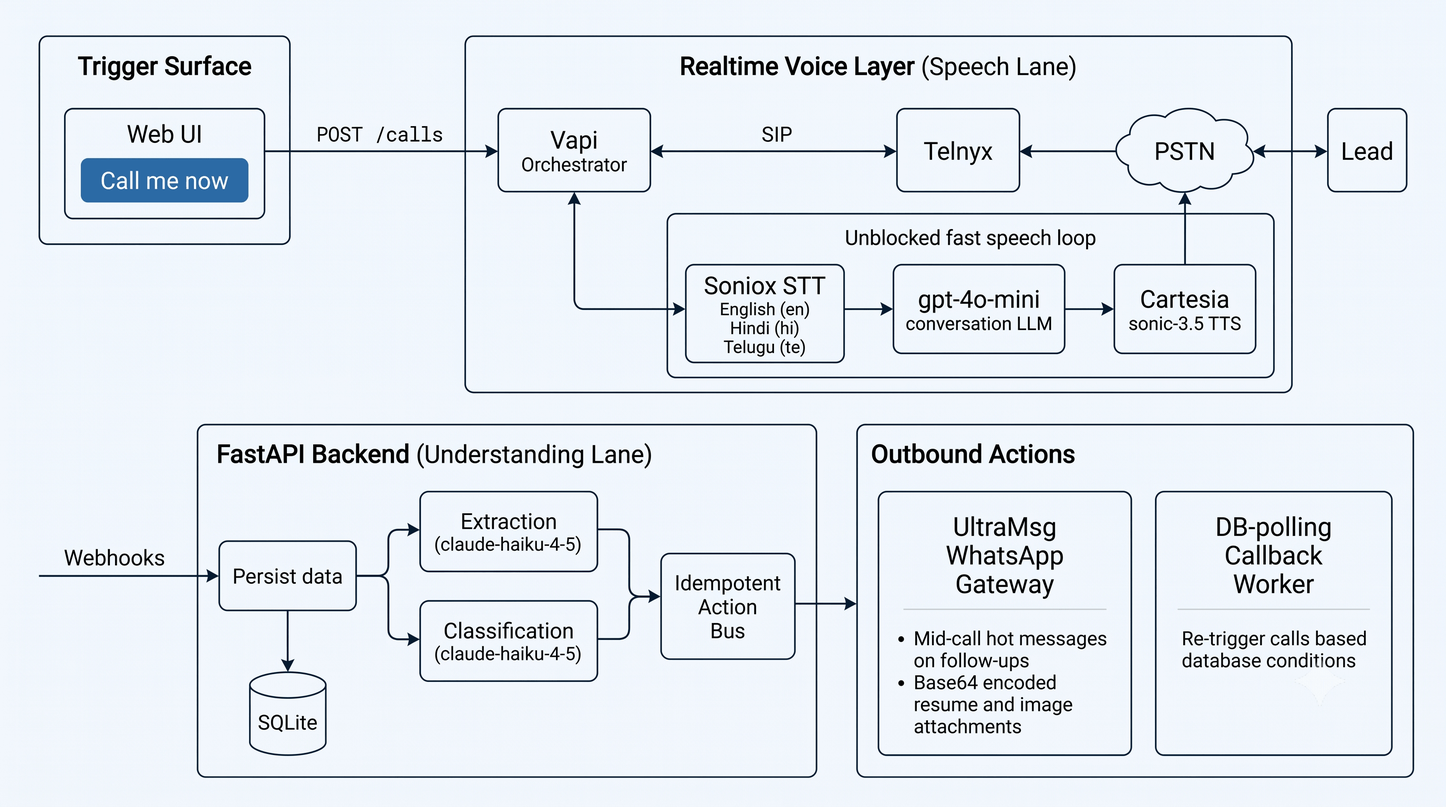
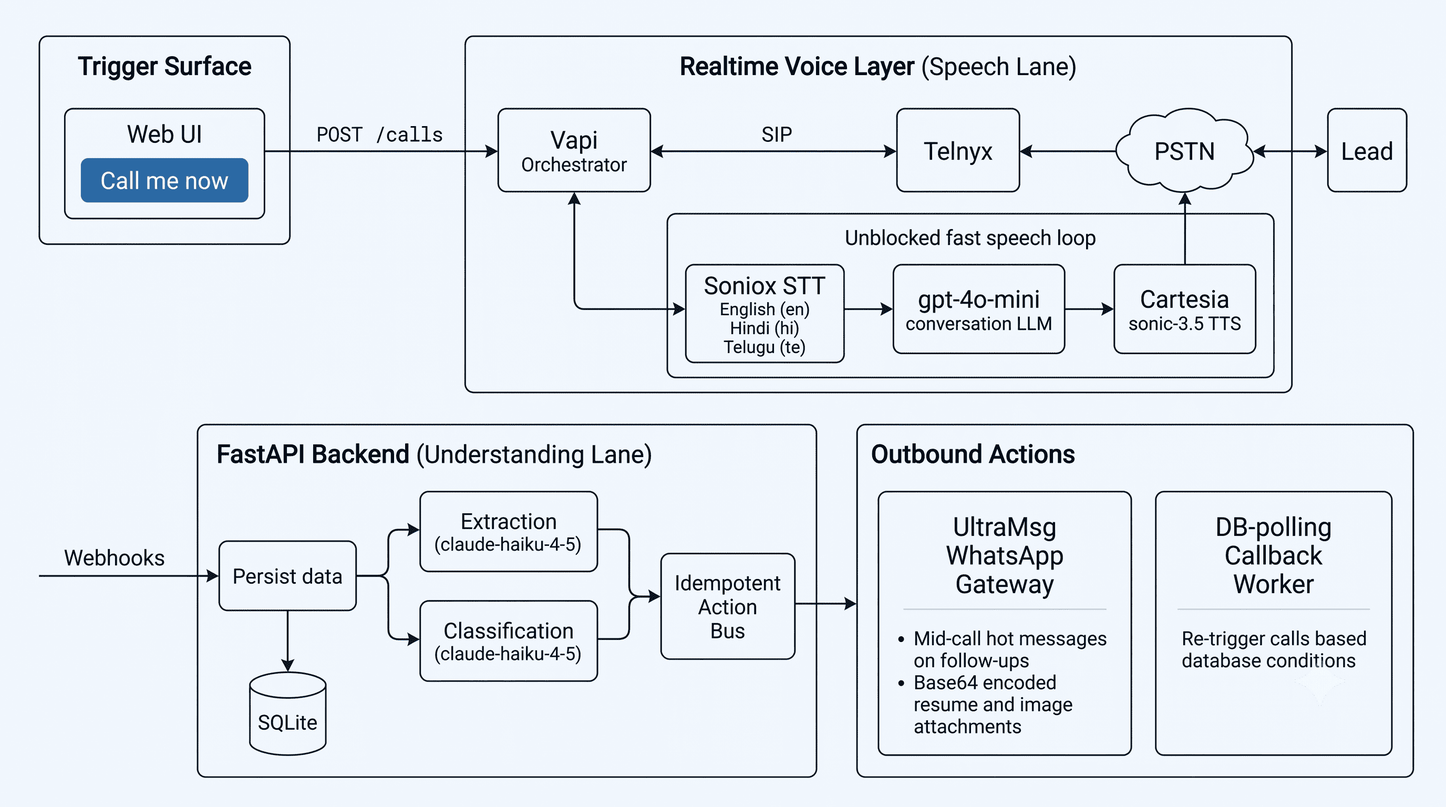
Improved whatsapp flow

diff --git a/backend/smoke_test.py b/backend/smoke_test.py
@@ -789,6 +789,58 @@ def main():
               sum(1 for a in db.get_actions(call6)
                   if a["type"] == "whatsapp_followup") == 1, db.get_actions(call6))
 
+        print("\nEVALUATOR ARMING  (the call must never outrun the messages)")
+        # The real bug this replaces: the dialler had no evaluator check while
+        # the WhatsApp sender did, so pointing ALLOWED_DESTINATION at the
+        # evaluator without ALLOW_EVALUATOR=1 gave a flawless call and refused
+        # every message on it. Both paths must now agree in all three states.
+        from app import dialler                                    # noqa: E402
+        original = (settings.allowed_destination, settings.allow_evaluator)
+        try:
+            def both(number):
+                """(dial_ok, whatsapp_ok) for one destination."""
+                dial_ok = settings.permits(number)[0]
+                try:
+                    whatsapp._check_destination(number)
+                    wa_ok = True
+                except whatsapp.WhatsAppError:
+                    wa_ok = False
+                return dial_ok, wa_ok
+
+            settings.allowed_destination = "+919876543210"
+            settings.allow_evaluator = False
+            check("own number: dial and message both allowed",
+                  both("+919876543210") == (True, True), both("+919876543210"))
+            check("evaluator refused from a normal run",
+                  both(EVALUATOR_NUMBER) == (False, False), both(EVALUATOR_NUMBER))
+
+            # HALF-ARMED: the state that used to lose most of the scorecard.
+            settings.allowed_destination = EVALUATOR_NUMBER
+            settings.allow_evaluator = False
+            check("half-armed: dial and message BOTH refused, never split",
+                  both(EVALUATOR_NUMBER) == (False, False), both(EVALUATOR_NUMBER))
+            check("half-armed is reported on /health",
+                  settings.evaluator_ready()[0] is False
+                  and "every WhatsApp would be refused" in settings.evaluator_ready()[1],
+                  settings.evaluator_ready())
+            try:
+                dialler.place()
+                check("half-armed dialler refuses to place the call", False, "it dialled")
+            except dialler.DialError as exc:
+                check("half-armed dialler refuses to place the call",
+                      exc.status == 403, exc.detail)
+
+            # ARMED: the real run.
+            settings.allow_evaluator = True
+            check("armed: dial and message both allowed",
+                  both(EVALUATOR_NUMBER) == (True, True), both(EVALUATOR_NUMBER))
+            check("armed is reported ready on /health",
+                  settings.evaluator_ready()[0] is True, settings.evaluator_ready())
+            check("armed still refuses a number that is not the destination",
+                  both("+919876543210") == (False, False), both("+919876543210"))
+        finally:
+            settings.allowed_destination, settings.allow_evaluator = original
+
         print("\nCALLBACK CLAIM  (cannot double-fire)")
         cb = db.add_callback(call_id, "2020-01-01T00:00:00+00:00", "tomorrow morning", "morning->10:00")
         first = db.claim_due_callback()

diff --git a/backend/app/config.py b/backend/app/config.py
@@ -18,6 +18,22 @@ ENV_CANDIDATES = [
 EVALUATOR_NUMBER = "+918688664337"
 
 
+def digits_of(number):
+    """Just the digits, so +91-830 994 2858 and 918309942858 compare equal."""
+    return "".join(ch for ch in (number or "") if ch.isdigit())
+
+
+def same_number(a, b):
+    """Last ten digits, which is what identifies an Indian mobile regardless of
+    whether the country code or a leading zero was written."""
+    da, dbn = digits_of(a), digits_of(b)
+    return bool(da) and bool(dbn) and da[-10:] == dbn[-10:]
+
+
+def is_evaluator(number):
+    return same_number(number, EVALUATOR_NUMBER)
+
+
 def load_env():
     """Populate os.environ from the first .env found. Returns its path."""
     for path in ENV_CANDIDATES:
@@ -135,6 +151,45 @@ class Settings:
             "ALLOWED_DESTINATION": self.allowed_destination,
         }
         return [k for k, v in required.items() if not v]
+
+    def permits(self, number):
+        """Is this number one we are allowed to contact? Returns (ok, why_not).
+
+        The single place that answers the question, so the dialler, the WhatsApp
+        sender and the callback worker cannot drift apart on it.
+
+        They HAD drifted, and the failure mode was the worst kind: the dialler
+        had no evaluator check at all while the WhatsApp sender did, so pointing
+        ALLOWED_DESTINATION at the evaluator without also setting ALLOW_EVALUATOR
+        produced a call that connected and held a perfect conversation while
+        every single message - mid-call, callback confirmation, follow-up and
+        resume - was silently refused. That is most of the scorecard lost on a
+        call that looks flawless from the phone.
+        """
+        if not digits_of(number):
+            return False, "no destination number"
+        if is_evaluator(number) and not self.allow_evaluator:
+            return False, ("refusing to contact the evaluator: set ALLOW_EVALUATOR=1 "
+                           "deliberately for the real run")
+        if not same_number(number, self.allowed_destination):
+            return False, (f"{digits_of(number)[-10:]} is not the allowed "
+                           f"destination {digits_of(self.allowed_destination)[-10:]}")
+        return True, ""
+
+    def evaluator_ready(self):
+        """Whether a real evaluator run is armed CONSISTENTLY.
+
+        Reported on /health because the dangerous state is not 'blocked', it is
+        'half-armed': allowed to dial but not to message. Blocked is obvious in
+        five seconds; half-armed is only discovered after the one call that
+        mattered has already ended.
+        """
+        if not is_evaluator(self.allowed_destination):
+            return False, "evaluator is not the ALLOWED_DESTINATION"
+        if not self.allow_evaluator:
+            return False, ("evaluator is dialable but ALLOW_EVALUATOR is not 1 - "
+                           "the call would connect and every WhatsApp would be refused")
+        return True, "armed: the evaluator can be called and messaged"
 
 
 settings = Settings()

diff --git a/backend/app/whatsapp.py b/backend/app/whatsapp.py
@@ -23,7 +23,7 @@ import urllib.error
 import urllib.request
 
 from . import ultramsg
-from .config import EVALUATOR_NUMBER, settings
+from .config import settings
 
 log = logging.getLogger("elevatebox.whatsapp")
 
@@ -77,22 +77,21 @@ def normalize(number):
 
 
 def _check_destination(number):
-    """Same guard as the dialler: we only ever message the configured number.
+    """Literally the same guard as the dialler - one function, three callers.
 
     Without this, a bug in message composition could send a half-built recap to
     the evaluator during development. The number is not a parameter callers can
     choose freely.
+
+    This used to be a second, independent implementation of the rule, and the two
+    drifted: the dialler had no evaluator check at all, so pointing the system at
+    the evaluator produced a call that connected perfectly and messages that were
+    all refused. Sharing `settings.permits` makes that state unreachable rather
+    than merely unlikely.
     """
-    allowed = normalize(settings.allowed_destination)
-    target = normalize(number)
-    if not target:
-        raise WhatsAppError(0, "no destination number")
-    if allowed and target[-10:] != allowed[-10:]:
-        raise WhatsAppError(0, f"destination {target[-10:]} is not the allowed "
-                               f"destination {allowed[-10:]}")
-    if target[-10:] == normalize(EVALUATOR_NUMBER)[-10:] and not settings.allow_evaluator:
-        raise WhatsAppError(0, "refusing to message the evaluator: set "
-                               "ALLOW_EVALUATOR=1 deliberately for the real run")
+    ok, why = settings.permits(number)
+    if not ok:
+        raise WhatsAppError(0, why)
 
 
 def _throttle(number):

diff --git a/backend/app/dialler.py b/backend/app/dialler.py
@@ -43,6 +43,14 @@ def place(is_callback_of=None, context="", first_message=None):
         raise DialError(503, f"not configured: {', '.join(settings.missing())}")
 
     destination = settings.allowed_destination
+
+    # The SAME guard the WhatsApp sender uses. This check was missing here while
+    # the sender had it, which meant a run pointed at the evaluator without
+    # ALLOW_EVALUATOR=1 dialled happily and then refused every message. Refusing
+    # the call too makes that state loud instead of silent.
+    ok, why = settings.permits(destination)
+    if not ok:
+        raise DialError(403, why)
     call_id = db.create_call(destination, assistant_id=settings.vapi_assistant_id,
                              is_callback_of=is_callback_of)
     db.add_event(call_id, "trigger.requested",

diff --git a/backend/app/main.py b/backend/app/main.py
@@ -90,6 +90,10 @@ def health():
         # Shown so a misconfiguration is obvious before a call, not after.
         "allowed_destination": dest,
         "destination_is_evaluator": _same_number(dest, EVALUATOR_NUMBER),
+        # The pre-flight for the one call that matters. "blocked" is obvious;
+        # "half-armed" - dialable but not messageable - is not, and it costs
+        # every WhatsApp on a call that otherwise looks perfect.
+        "evaluator_run": dict(zip(("ready", "detail"), settings.evaluator_ready())),
         "actions": actions.status_report(),
         "understanding": understanding.status_report(),
         "classifier": classifier.providers_status(),
